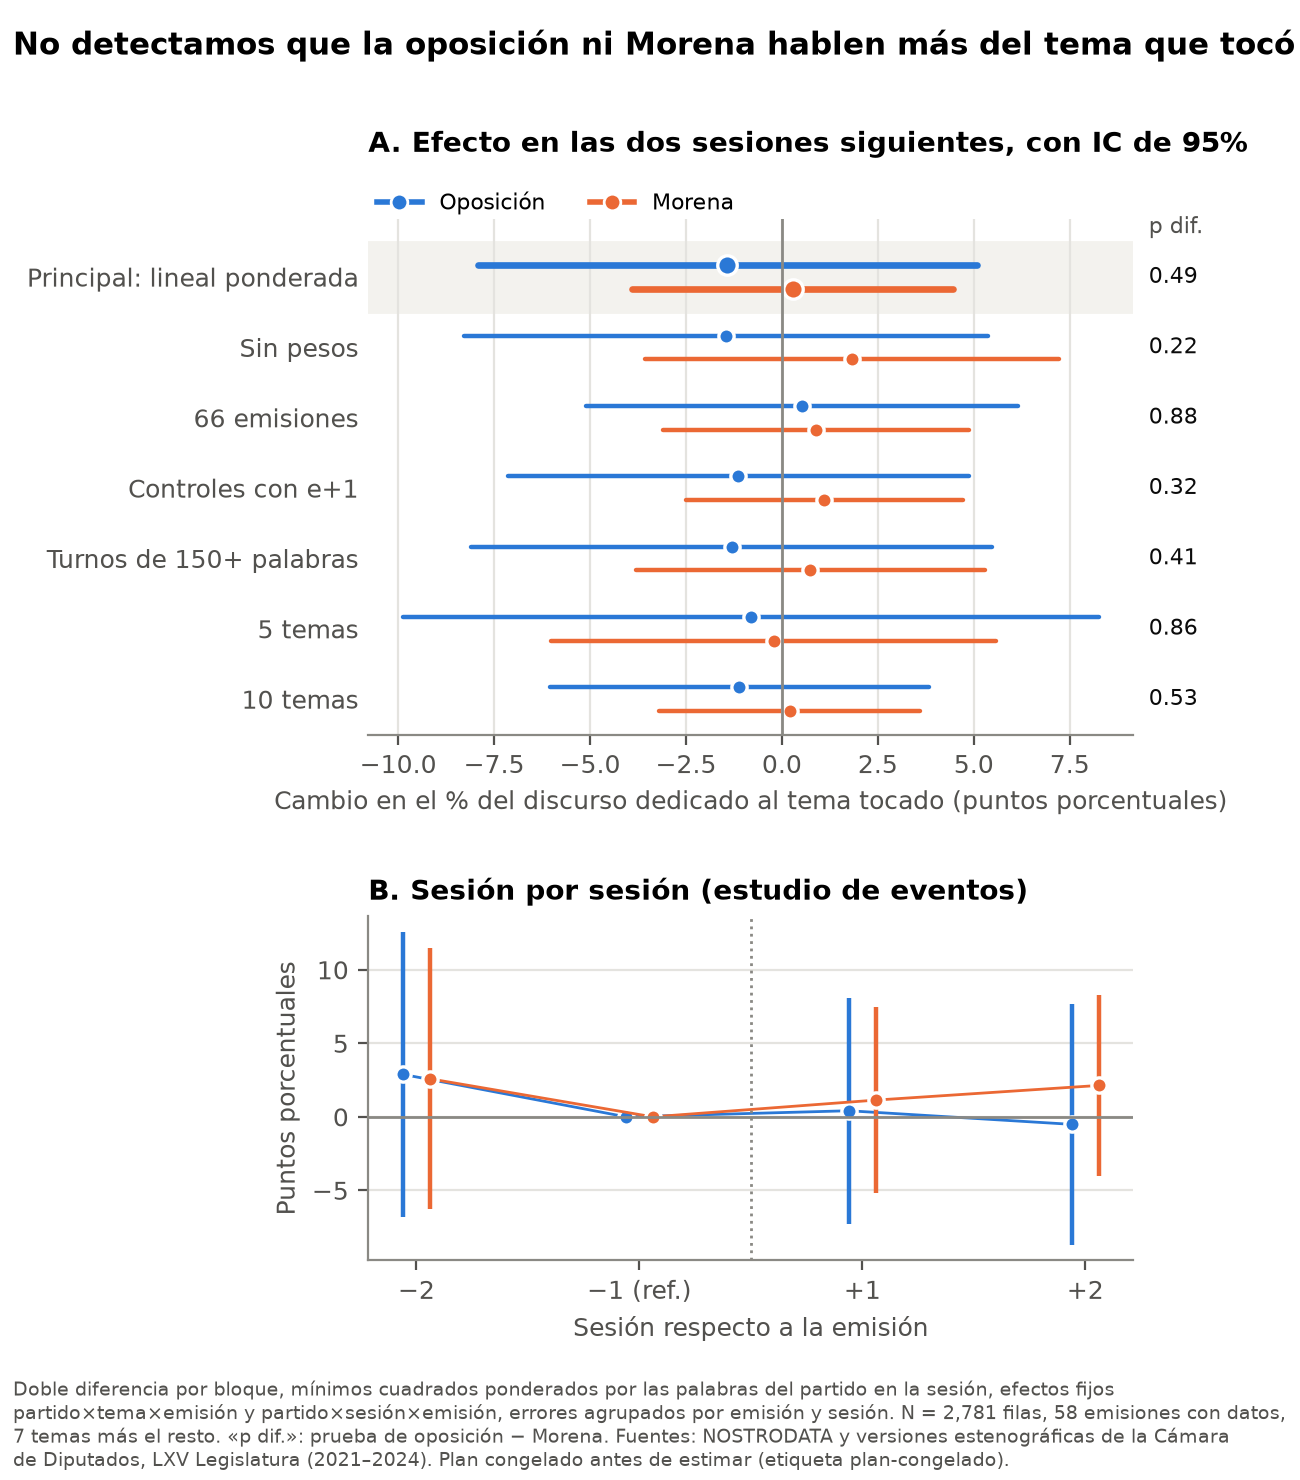
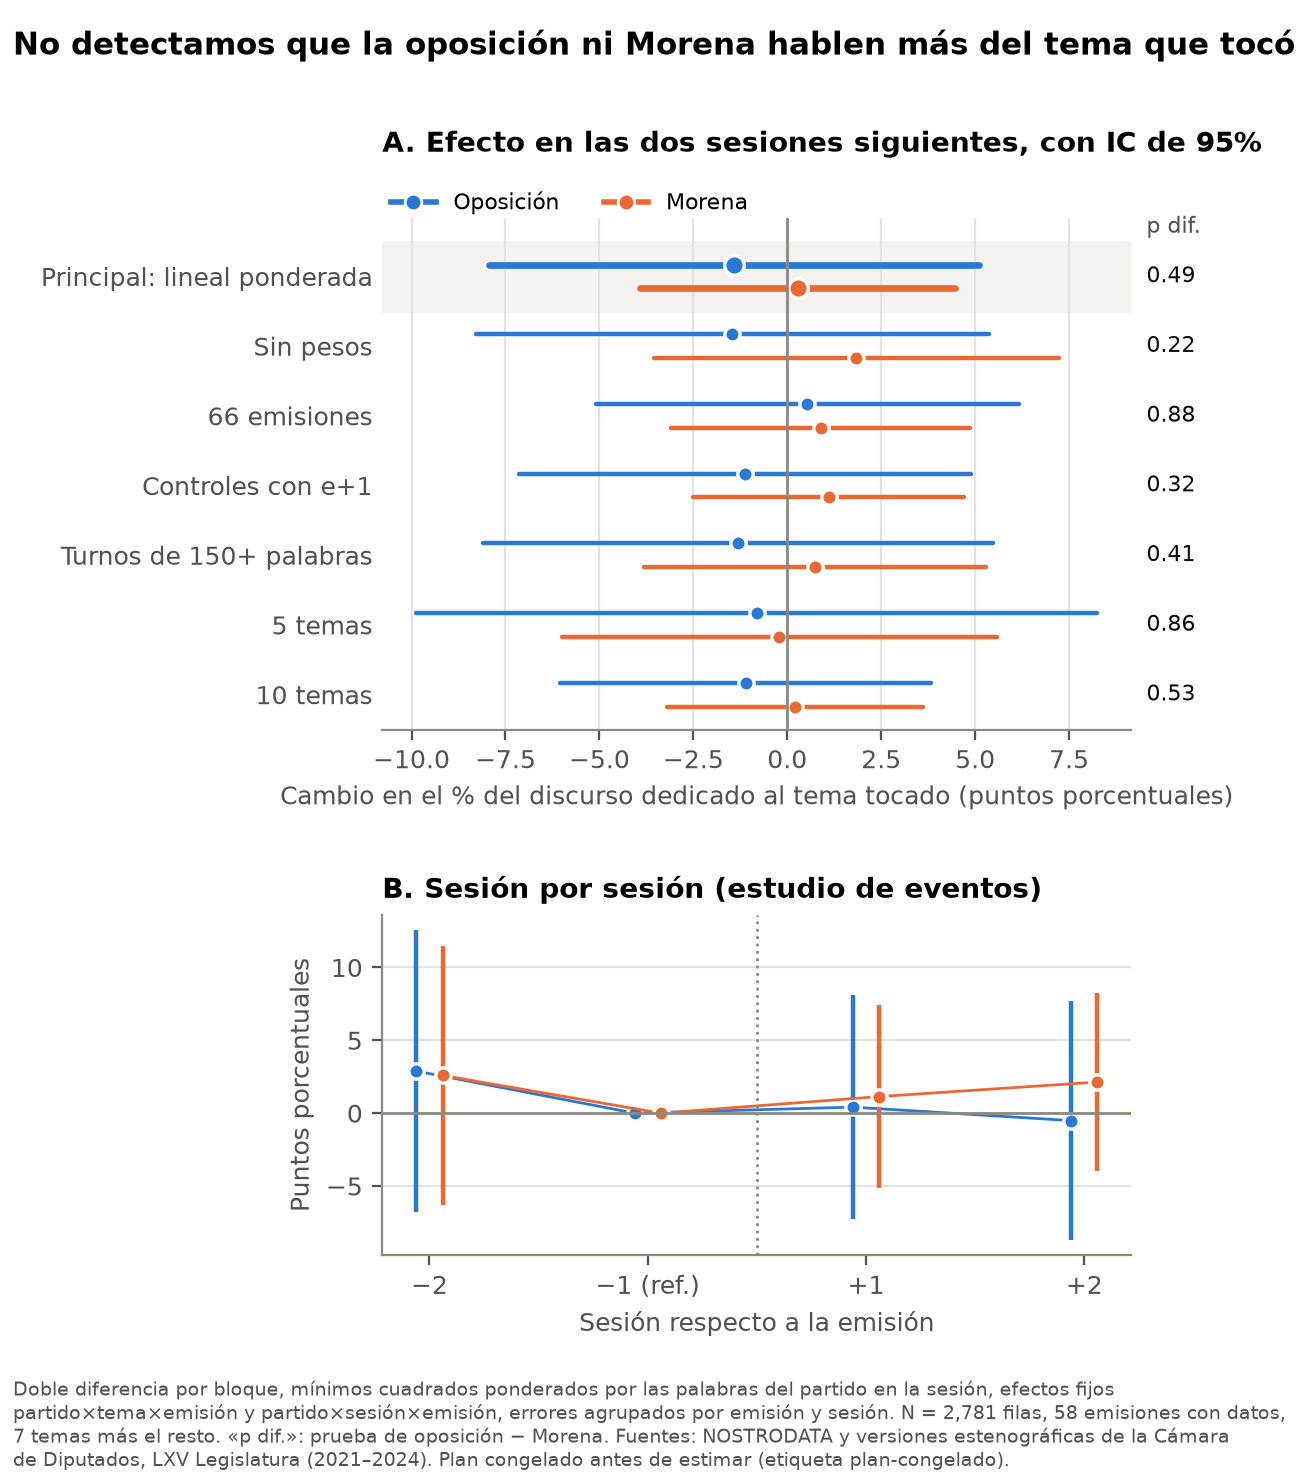
Agregar script para generar figura de resultados y nuevos archivos de imagen

diff --git a/analisis/17_figura_resultado.py b/analisis/17_figura_resultado.py
@@ -1,0 +1,88 @@
+"""La figura de resultados para la presentación, en formato afirmación y evidencia.
+ 
+Lee la última salida de 11_estimar.py principal (analisis/resultados/principal_*.csv) y guarda
+presentacion/figura_resultado.png. No estima nada: todos los números salen del CSV.
+ 
+Uso: python analisis/15_figura_resultado.py
+"""
+from pathlib import Path
+ 
+import matplotlib.pyplot as plt
+import pandas as pd
+ 
+RAIZ = Path(__file__).resolve().parents[1]
+OPOS, MORENA, DIF = "#2a78d6", "#eb6834", "#1f1f1e"
+TEXTO, TEXTO_2, GRIS, REJILLA = "#1f1f1e", "#52514e", "#8a8984", "#e4e3df"
+ 
+ 
+def pp(x):
+    """Número con signo y signo de menos tipográfico: −1.4, +0.3."""
+    return f"{x:+.1f}".replace("-", "−")
+ 
+ 
+def main():
+    res = RAIZ / "analisis" / "resultados"
+    p = pd.read_csv(sorted(res.glob("principal_*.csv"))[-1]).set_index("bloque")
+    o, m, d = p.loc["oposicion"], p.loc["morena"], p.loc["diferencia"]
+ 
+    plt.rcParams.update({"font.family": "DejaVu Sans", "font.size": 12,
+                         "axes.edgecolor": GRIS, "xtick.color": TEXTO_2, "ytick.color": TEXTO_2})
+    fig, ax = plt.subplots(figsize=(11, 6.8))
+    filas = [("Oposición\n(PAN, PRI, PRD y MC)", o, OPOS), ("Morena", m, MORENA),
+             ("Diferencia\n(oposición − Morena)", d, DIF)]
+    for i, (nombre, f, color) in enumerate(filas):
+        y = len(filas) - 1 - i
+        # Intervalo de 95%: la línea, con sus extremos marcados y rotulados.
+        ax.plot([f.ic_bajo, f.ic_alto], [y, y], color=color, lw=4, solid_capstyle="butt", zorder=2)
+        for x in (f.ic_bajo, f.ic_alto):
+            ax.plot([x, x], [y - 0.09, y + 0.09], color=color, lw=2.5, zorder=2)
+            ax.text(x, y - 0.17, pp(x), ha="center", va="top", fontsize=10.5, color=TEXTO_2)
+        # Estimación: el punto, con su valor encima.
+        ax.plot(f.coef, y, "o", color=color, ms=13, mec="white", mew=2, zorder=3)
+        ax.text(f.coef, y + 0.15, f"{pp(f.coef)} pp", ha="center", va="bottom", fontsize=13,
+                fontweight="bold", color=TEXTO, zorder=4,
+                bbox=dict(boxstyle="square,pad=0.15", fc="white", ec="none"))
+        ax.text(1.01, y, f"p = {f.p:.2f}", transform=ax.get_yaxis_transform(), va="center",
+                fontsize=11.5, color=TEXTO_2)
+ 
+    # Rótulo que dice qué es la línea, sobre la primera fila.
+    ax.annotate("Intervalo de confianza de 95%", xy=(o.ic_bajo + 0.6, len(filas) - 1 + 0.03),
+                xytext=(o.ic_bajo - 0.2, len(filas) - 0.42), fontsize=11, color=OPOS, ha="left",
+                arrowprops=dict(arrowstyle="-", color=OPOS, lw=1))
+    ax.axvline(0, color=TEXTO_2, lw=1.4, zorder=1)
+    ax.text(0.15, len(filas) - 0.38, "0 = sin efecto", ha="left", va="center", fontsize=10.5, color=TEXTO_2)
+ 
+    ax.set_yticks(range(len(filas)), [n for n, _, _ in reversed(filas)], fontsize=12.5)
+    ax.tick_params(axis="y", length=0)
+    for lado in ["top", "right", "left"]:
+        ax.spines[lado].set_visible(False)
+    ax.set_ylim(-0.75, len(filas) - 0.3)
+    ax.set_xlim(-10, 8)
+    ax.xaxis.grid(True, color=REJILLA, lw=0.8)
+    ax.set_axisbelow(True)
+    ax.set_xlabel("Cambio en el % del discurso dedicado al tema tocado en las dos sesiones siguientes "
+                  "(puntos porcentuales, pp)", color=TEXTO_2, labelpad=10)
+ 
+    # Afirmación y evidencia: el título dice el hallazgo con sus números.
+    fig.suptitle(f"La mañanera no movió la agenda: la oposición cambió {pp(o.coef)} pp y Morena {pp(m.coef)} pp,\n"
+                 "y ninguno de los dos cambios se distingue de cero", x=0.012, y=0.975, ha="left",
+                 fontsize=16, fontweight="bold", color=TEXTO, linespacing=1.3)
+    fig.text(0.012, 0.85,
+             "Cambio en el discurso sobre el tema tocado tras la emisión.",
+             fontsize=12, color=TEXTO_2, va="top", linespacing=1.45)
+    fig.text(0.012, 0.012,
+             "Doble diferencia por bloque, mínimos cuadrados ponderados por las palabras del partido en la sesión, "
+             "errores agrupados por emisión y sesión.\n"
+             f"N = {int(o.n):,} observaciones partido × tema × sesión, {int(o.emisiones)} emisiones de "
+             "“Quién es quién en las mentiras”, 7 temas más el resto. Una sola corrida del plan congelado.\n"
+             "Fuentes: NOSTRODATA y versiones estenográficas de la Cámara de Diputados, LXV Legislatura (2021–2024).",
+             fontsize=9, color=TEXTO_2, va="bottom", linespacing=1.45)
+    fig.subplots_adjust(left=0.19, right=0.86, top=0.75, bottom=0.25)
+    salida = RAIZ / "presentacion" / "figura_resultado.png"
+    fig.savefig(salida, dpi=200, facecolor="white")
+    print(salida)
+ 
+ 
+if __name__ == "__main__":
+    main()
+ 
